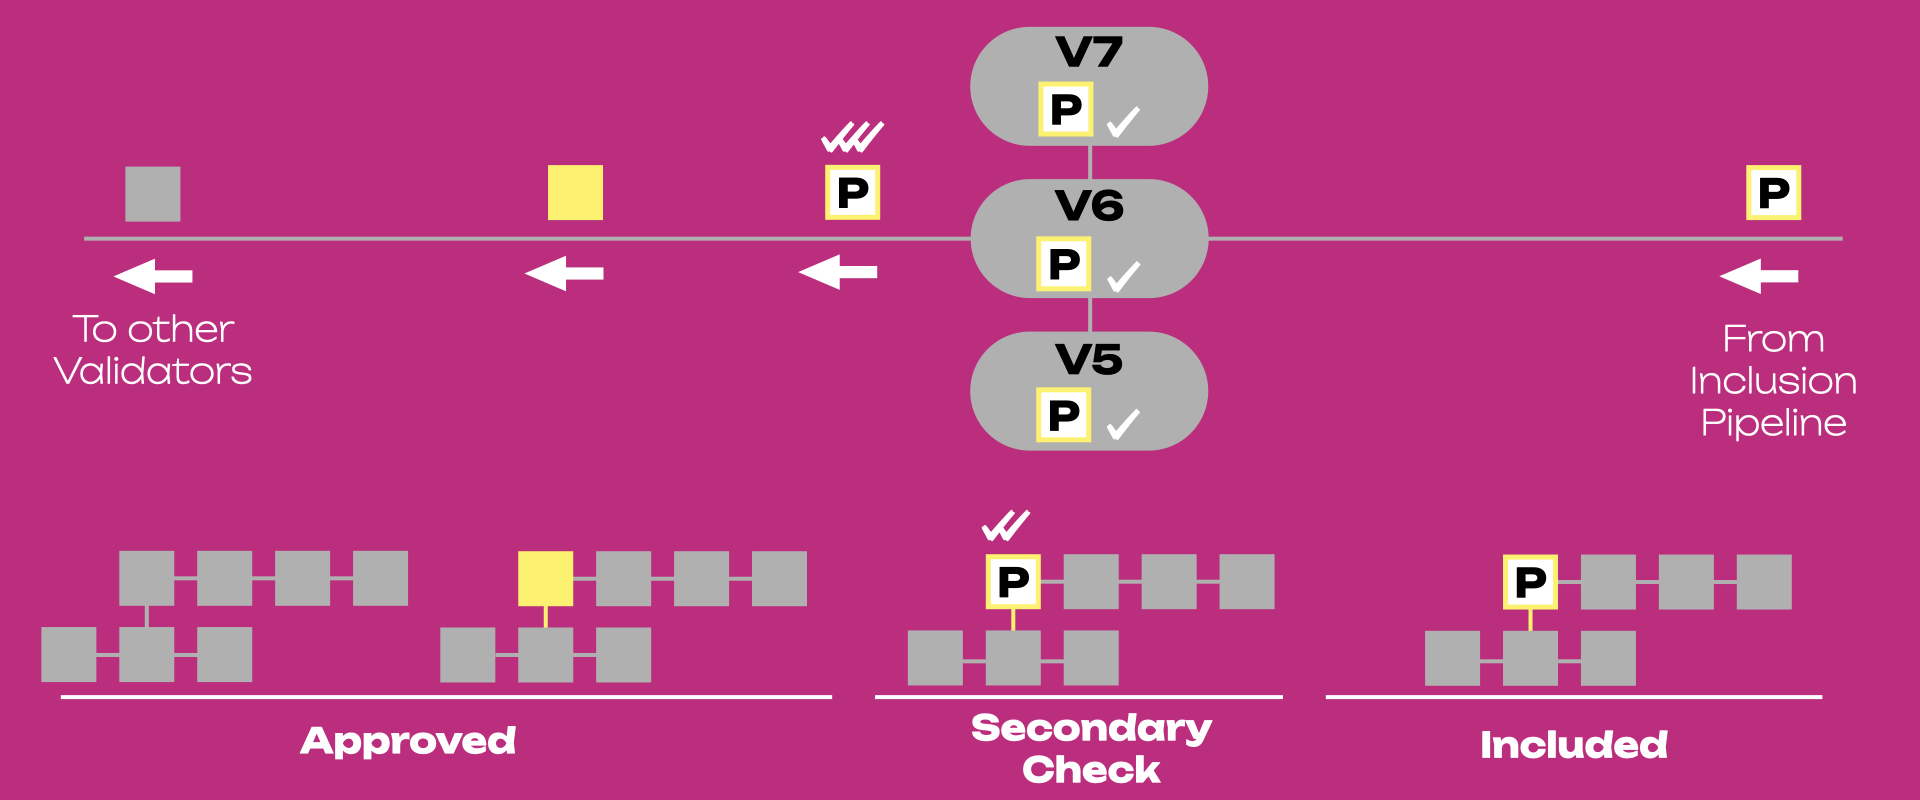
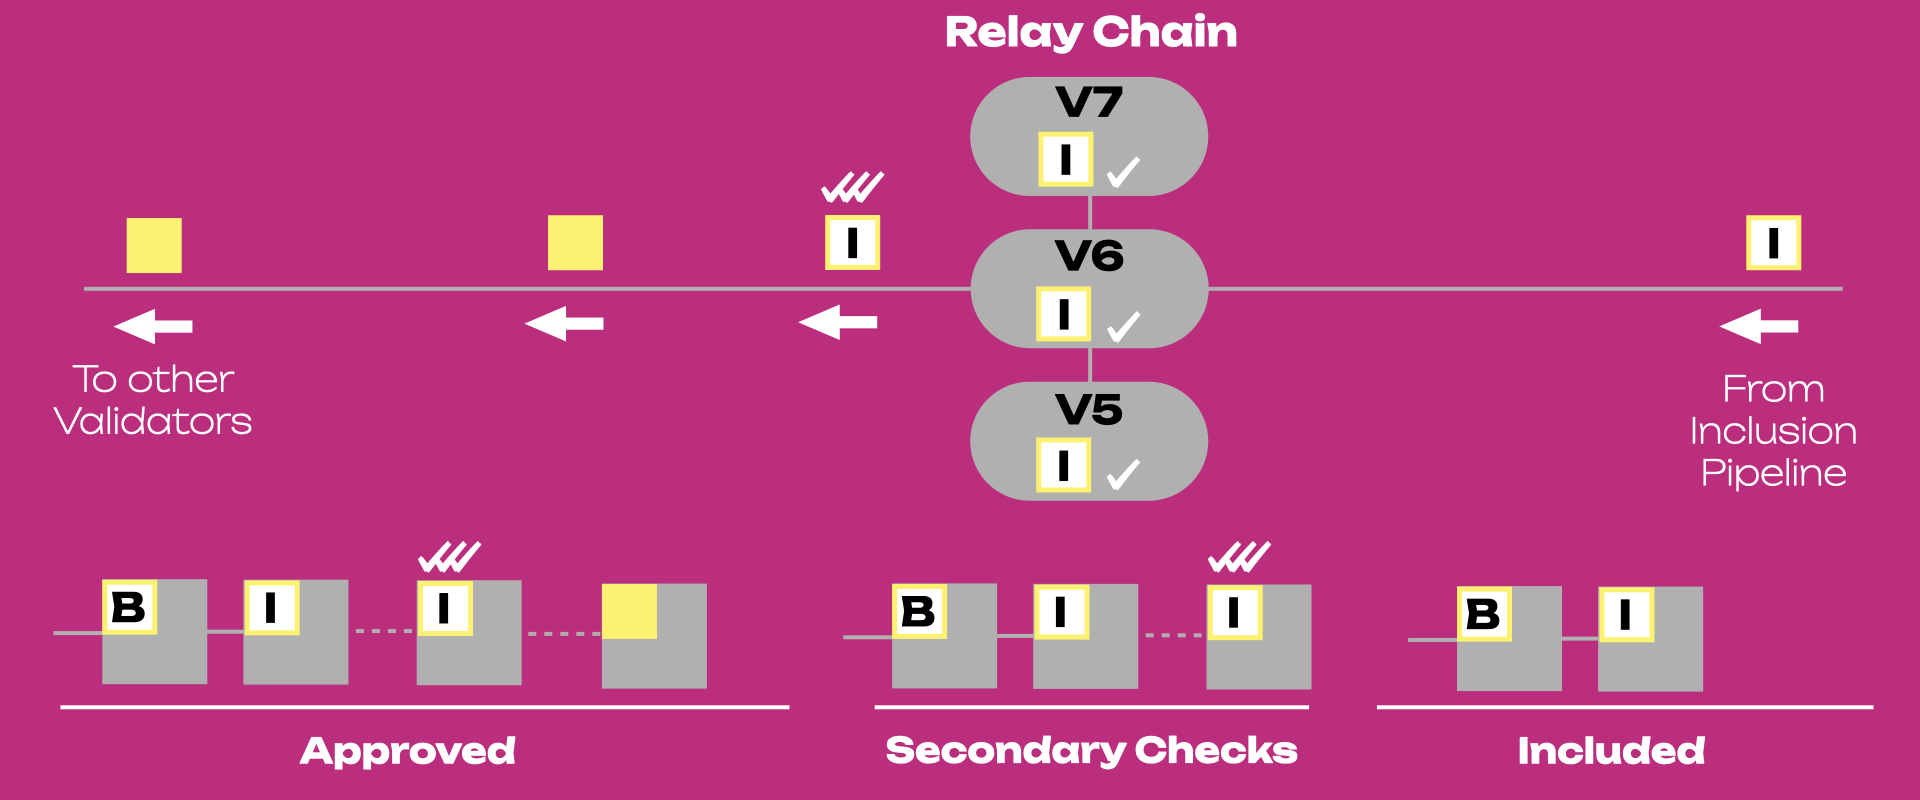
Edits Parachains' Protocol (#5208)
* updated figures

* adjusted text

* added banner async backing

* minor addition

* added Bader's feedback

Changed region(s): [[0.0, 0.0, 0.9688, 1.0], [0.875, 0.4688, 0.9688, 0.625]]

diff --git a/docs/learn/learn-parachains-protocol.md b/docs/learn/learn-parachains-protocol.md
@@ -76,9 +76,10 @@ The parachain protocol is divided into two main phases:
 - [**Inclusion Pipeline**](#inclusion-pipeline): Collators send parachain blocks (parablocks) with
   PoV to Validators. Validators verify if the parablocks follow the state transition rules of the
   parachain and sign statements that can have a positive or negative outcome. With enough positive
-  statements, the block is added to the Relay Chain, but is still pending approval.
+  statements, the block is **backed** and **included** in the Relay Chain, but is still pending
+  approval.
 - [**Approval Process**](#approval-process): Validators perform additional checks that, if positive,
-  allow the parablock to be approved.
+  allow the parablock to be **approved**.
 
 The figure below shows a representation of a parachain with collators and validators. The figure
 also shows the journey of a parachain block (white square) through the Inclusion Pipeline and the
@@ -122,20 +123,29 @@ changes its status through this path as follows:
   the collator). Note the candidate is not valid yet and can still fail to be included in the Relay
   Chain.
 - Seconded: The block is put forward by the para-validator V1 to other para-validators (in this case
-  V2 and V3). The seconded block is shown as a white square with a white tick mark and two yellow
-  tick marks on top of it. The yellow marks show the PoV from the para-validators.
+  V2 and V3). The seconded block is shown as a white square with a white tick mark and a yellow tick
+  mark on top of it. The yellow mark show the PoV from para-validator V1.
 - Backable: The block validity is attested by a majority of the para-validators. The backable block
   is shown as white square with a white tick mark and three yellow tick marks on top of it. The
   yellow marks show the PoV from the para-validators, while the white mark the PoV from the
   collator.
 - Backed: The block is backed and noted in a fork on the Relay Chain by a relay chain block author
-  (in this case V4). The backed block is shown as a square with white background and yellow border.
-  The backed block can still fail to be included in the Relay Chain. Note that for simplicity here
-  the backed parachain block is represented as a block of the Relay Chain, but in reality a relay
-  chain block contains many parachian blocks.
+  (in this case V4). The backed block is shown as a square with white background and yellow border
+  enclosing a "B". The backed block can still fail to be included in the Relay Chain. Note that for
+  simplicity here the backed parachain block is represented within the Relay Chain block, but in
+  reality a relay chain block does not contain the parablocks themselves (more about this later).
 - Pending availability: The block is backed but not considered available yet.
-- Included: The block is backed and considered available (we have a parablock). Parablocks are shown
-  as square with white background and yellow border enclosing a "P".
+- Included: The block is backed and considered available (we have a parablock). Included parablocks
+  are shown as square with white background and yellow border enclosing an "I".
+
+:::info Asynchronous Backing
+
+Parablocks' backing and inclusion take 12 seconds to be recorded on the relay chain, i.e. backing
+happens in one relay chain block (6 seconds) and inclusion in another relay chain block (additional
+6 seconds, see Figure above). With [**asynchronous backing**](./learn-async-backing.md), backing and
+inclusion can be recorded in just one relay chain block.
+
+:::
 
 ### Parachain Phase
 
@@ -267,8 +277,8 @@ enters the Approval Process. The parablock becomes accepted when it is backed, a
 **undisputed**. The parablock is checked a second time by a subset of validators (V5, V6 and V7),
 and if there are no contradictory results the block is approved and gossiped to other relay chain
 validators. Note the parablock after secondary checks is shown as a square with a white background a
-yellow border enclosing a "P", and three white ticks (one for each secondary check). Approved
-para-blocks are shown as yellow squares that become grey.
+yellow border enclosing an "I" (stands for _included_), and three white ticks (one for each
+secondary check). Approved para-blocks are shown as yellow squares.
 
 ![parachain-approval-process](../assets/parachain-approval-process.png)
 
